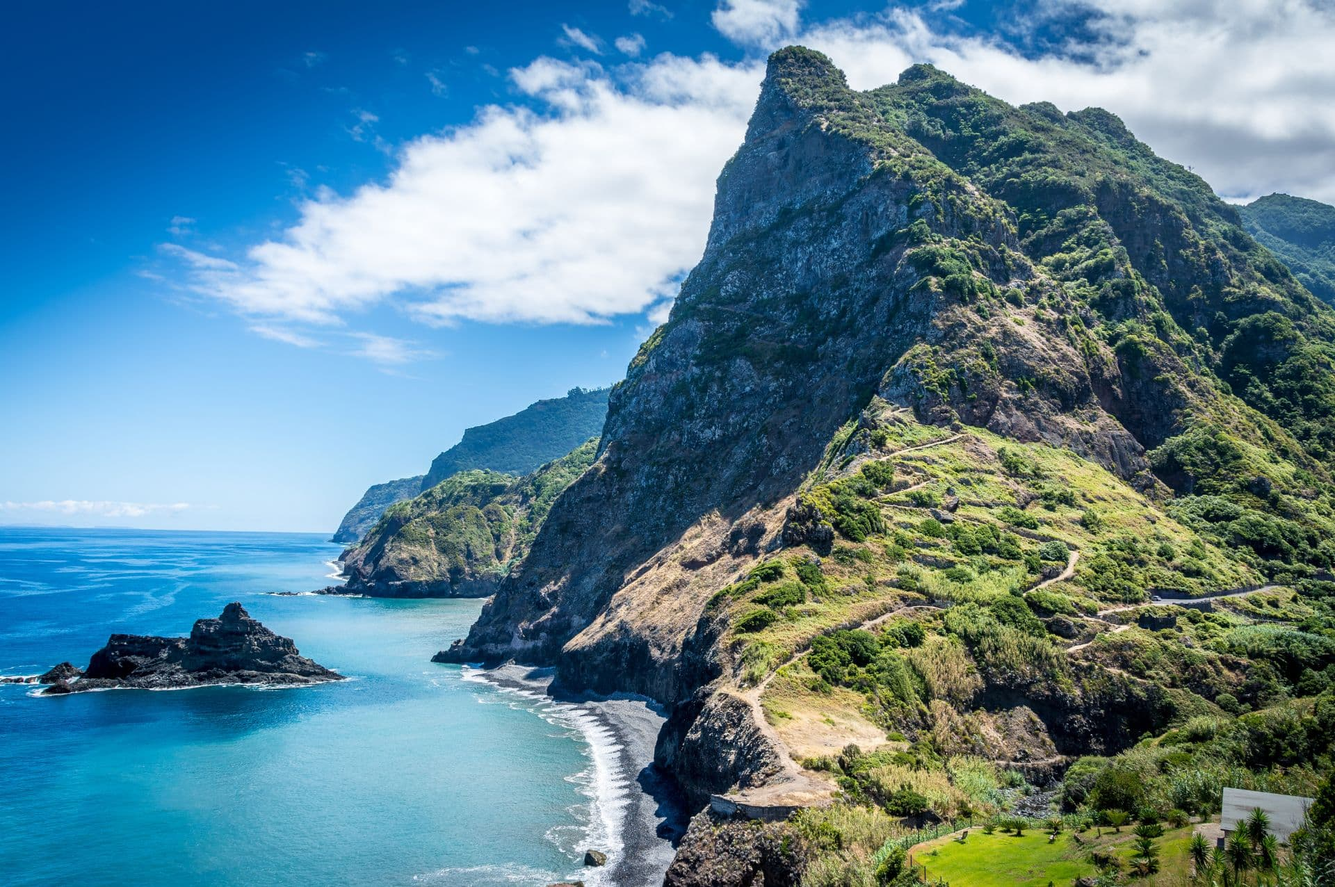
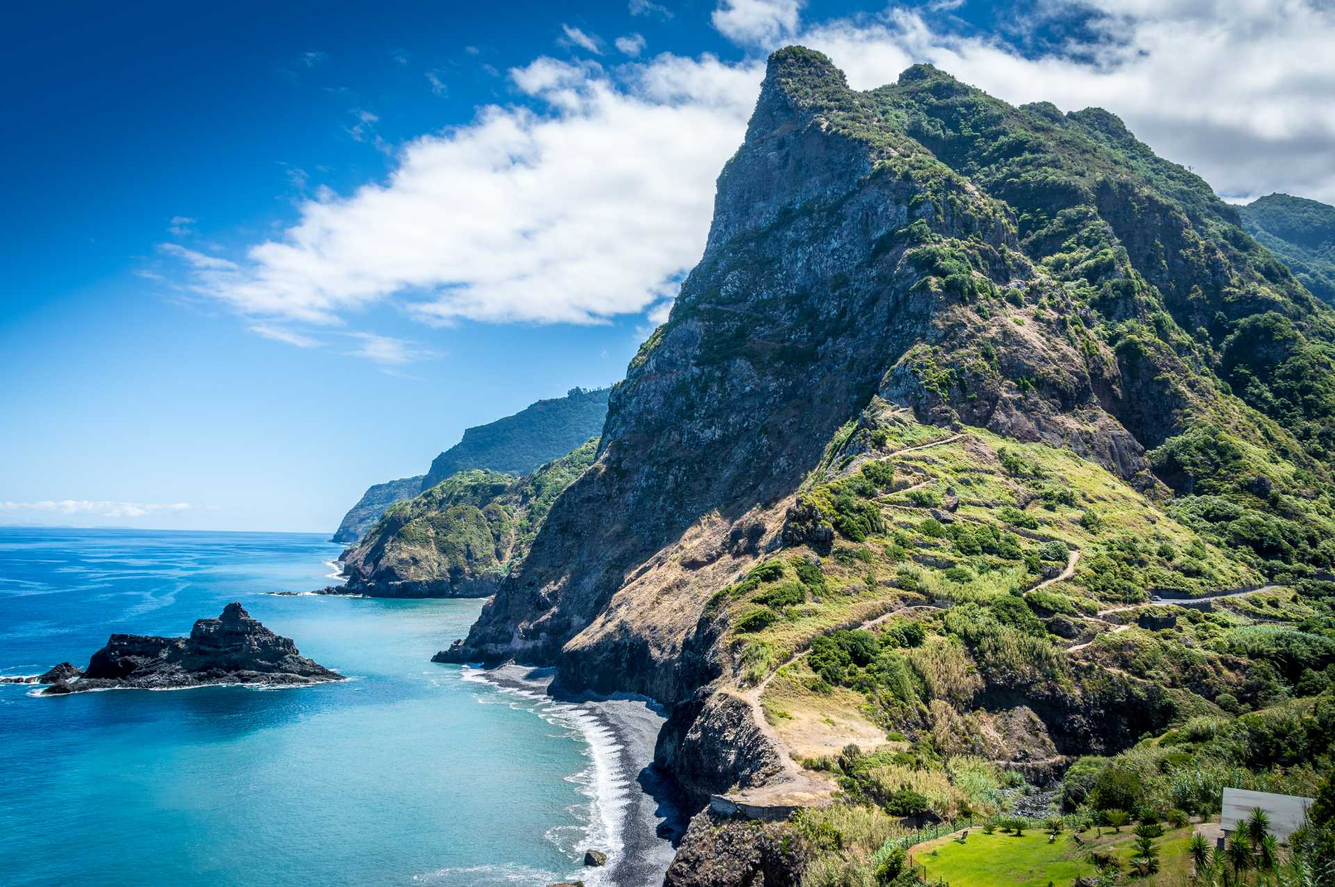
new images, different images for phone and computer

diff --git a/resources/views/layout.blade.php b/resources/views/layout.blade.php
@@ -54,6 +54,21 @@
     <!-- Font Awesome -->
     <script src="https://kit.fontawesome.com/cf64f43fc0.js" crossorigin="anonymous"></script>
 
+    <style>
+
+      #system {
+        background-image: url('{{ asset('/img/main/1-phone.jpg') }}');
+      }
+  
+      @media (min-width: 425px) {
+        #system {
+          background-image: url('{{ asset('/img/main/1.jpg') }}');
+        }
+      }
+
+  </style>
+  
+
     <!-- Resources (CSS and JS) -->
     @vite(['resources/css/app.css', 'resources/js/app.js'])
 

diff --git a/resources/views/home.blade.php b/resources/views/home.blade.php
@@ -2,7 +2,7 @@
 @php $title = 'title.home'; @endphp
 @section('main')
 
-  <div id="system" class="xl:pt-16 xl:pb-16 pb-4 bg-no-repeat bg-cover bg-bottom flex flex-col xl:gap-8" style="background-image: url('/img/main/1.jpg')">
+  <div id="system" class="xl:pt-16 xl:pb-16 pb-4 bg-no-repeat bg-cover bg-bottom lg:px-0 flex flex-col xl:gap-8">
 
     <article class="px-default py-4">
       <anyrent-iframe data-locale="{{$language}}"></anyrent-iframe>
